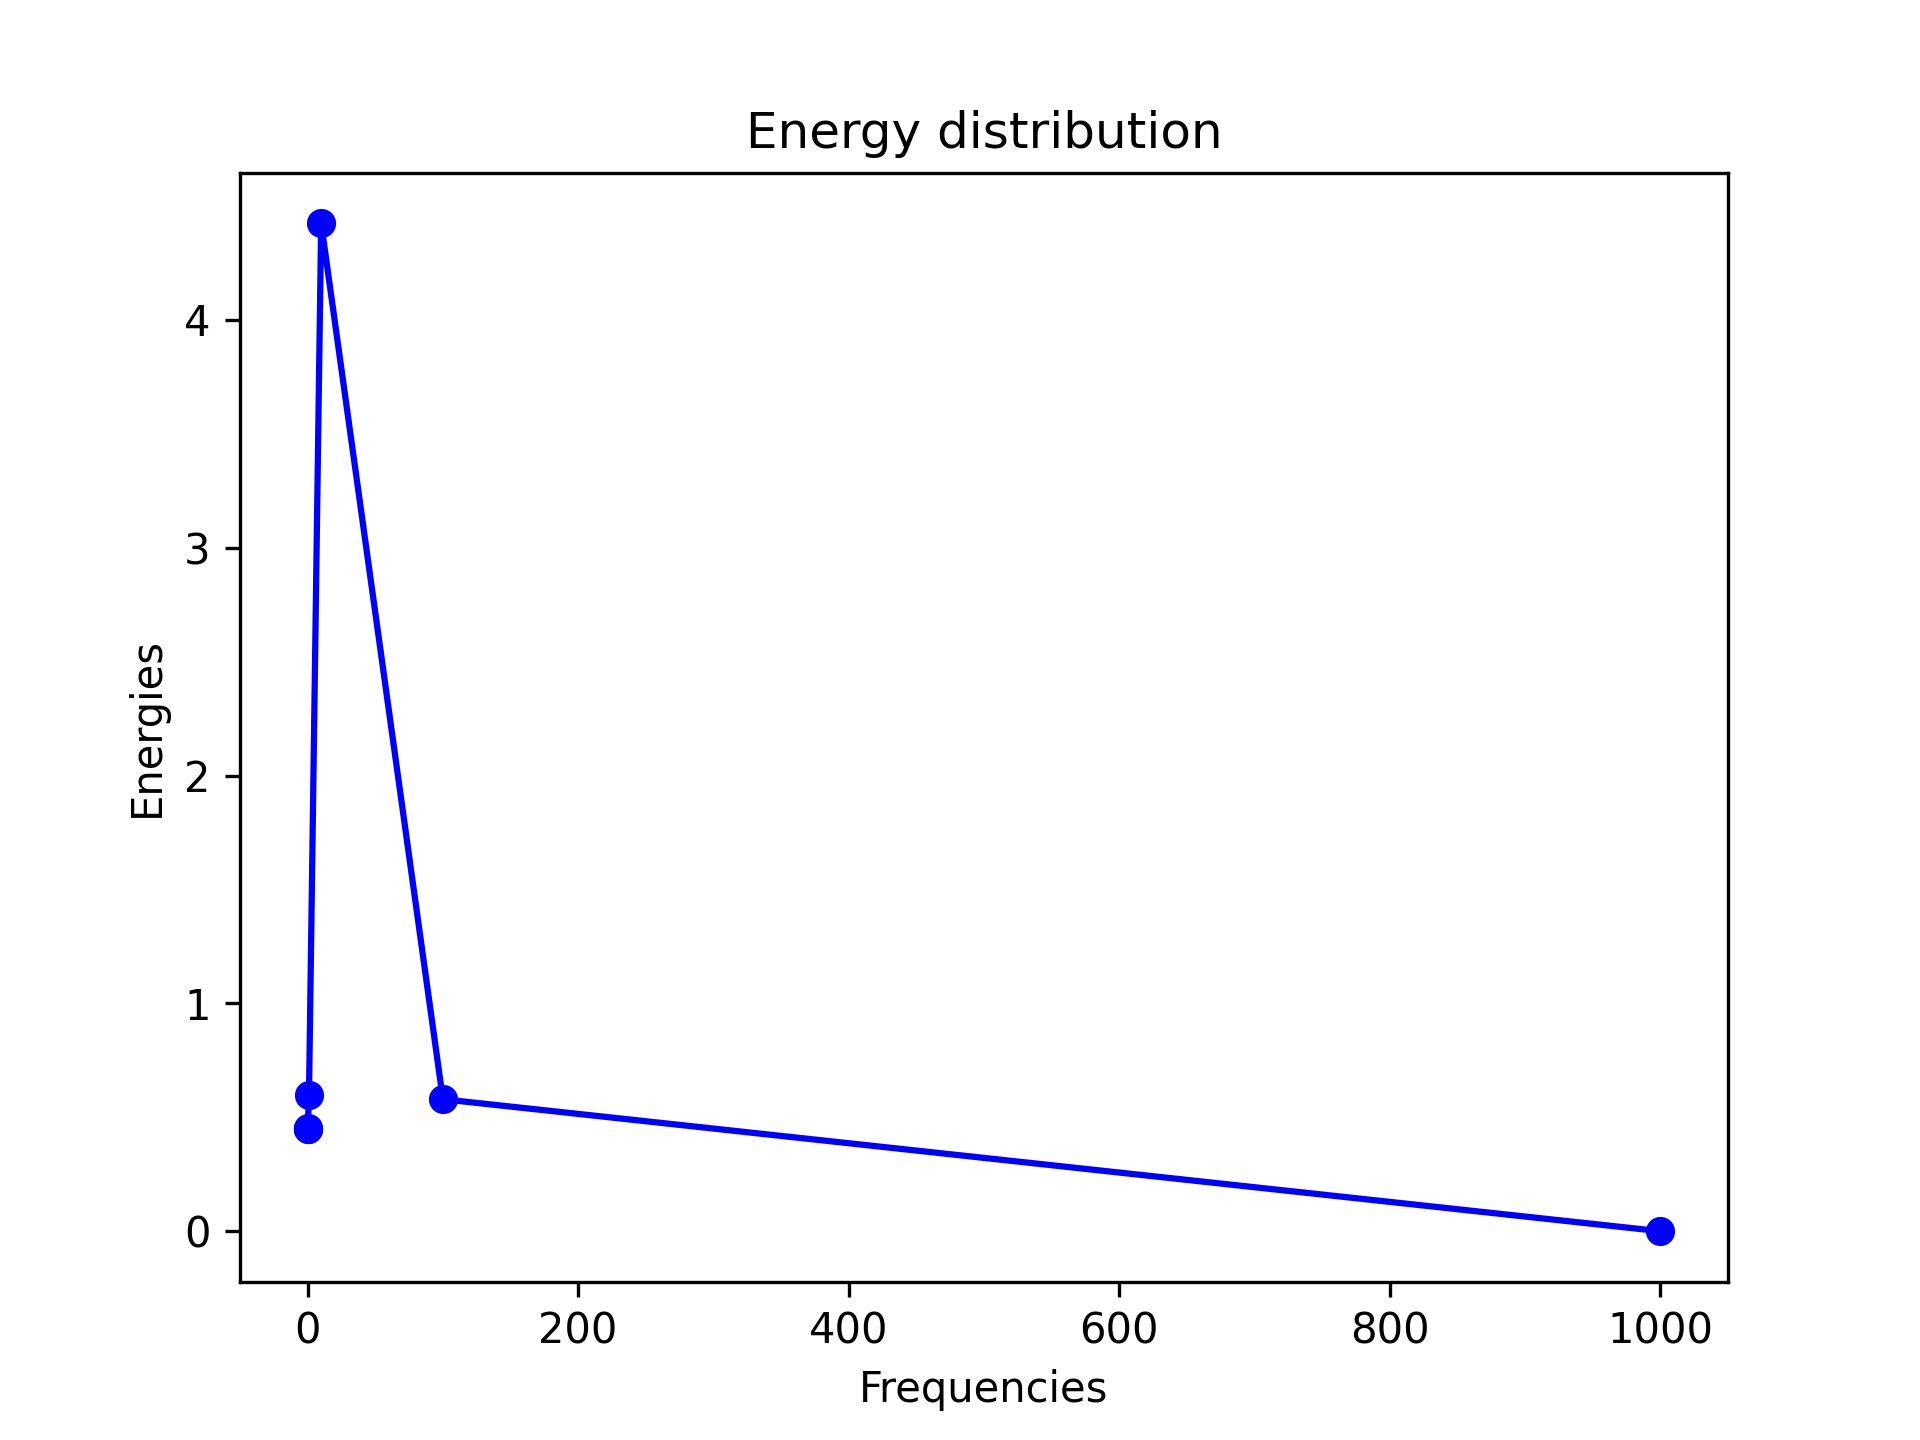
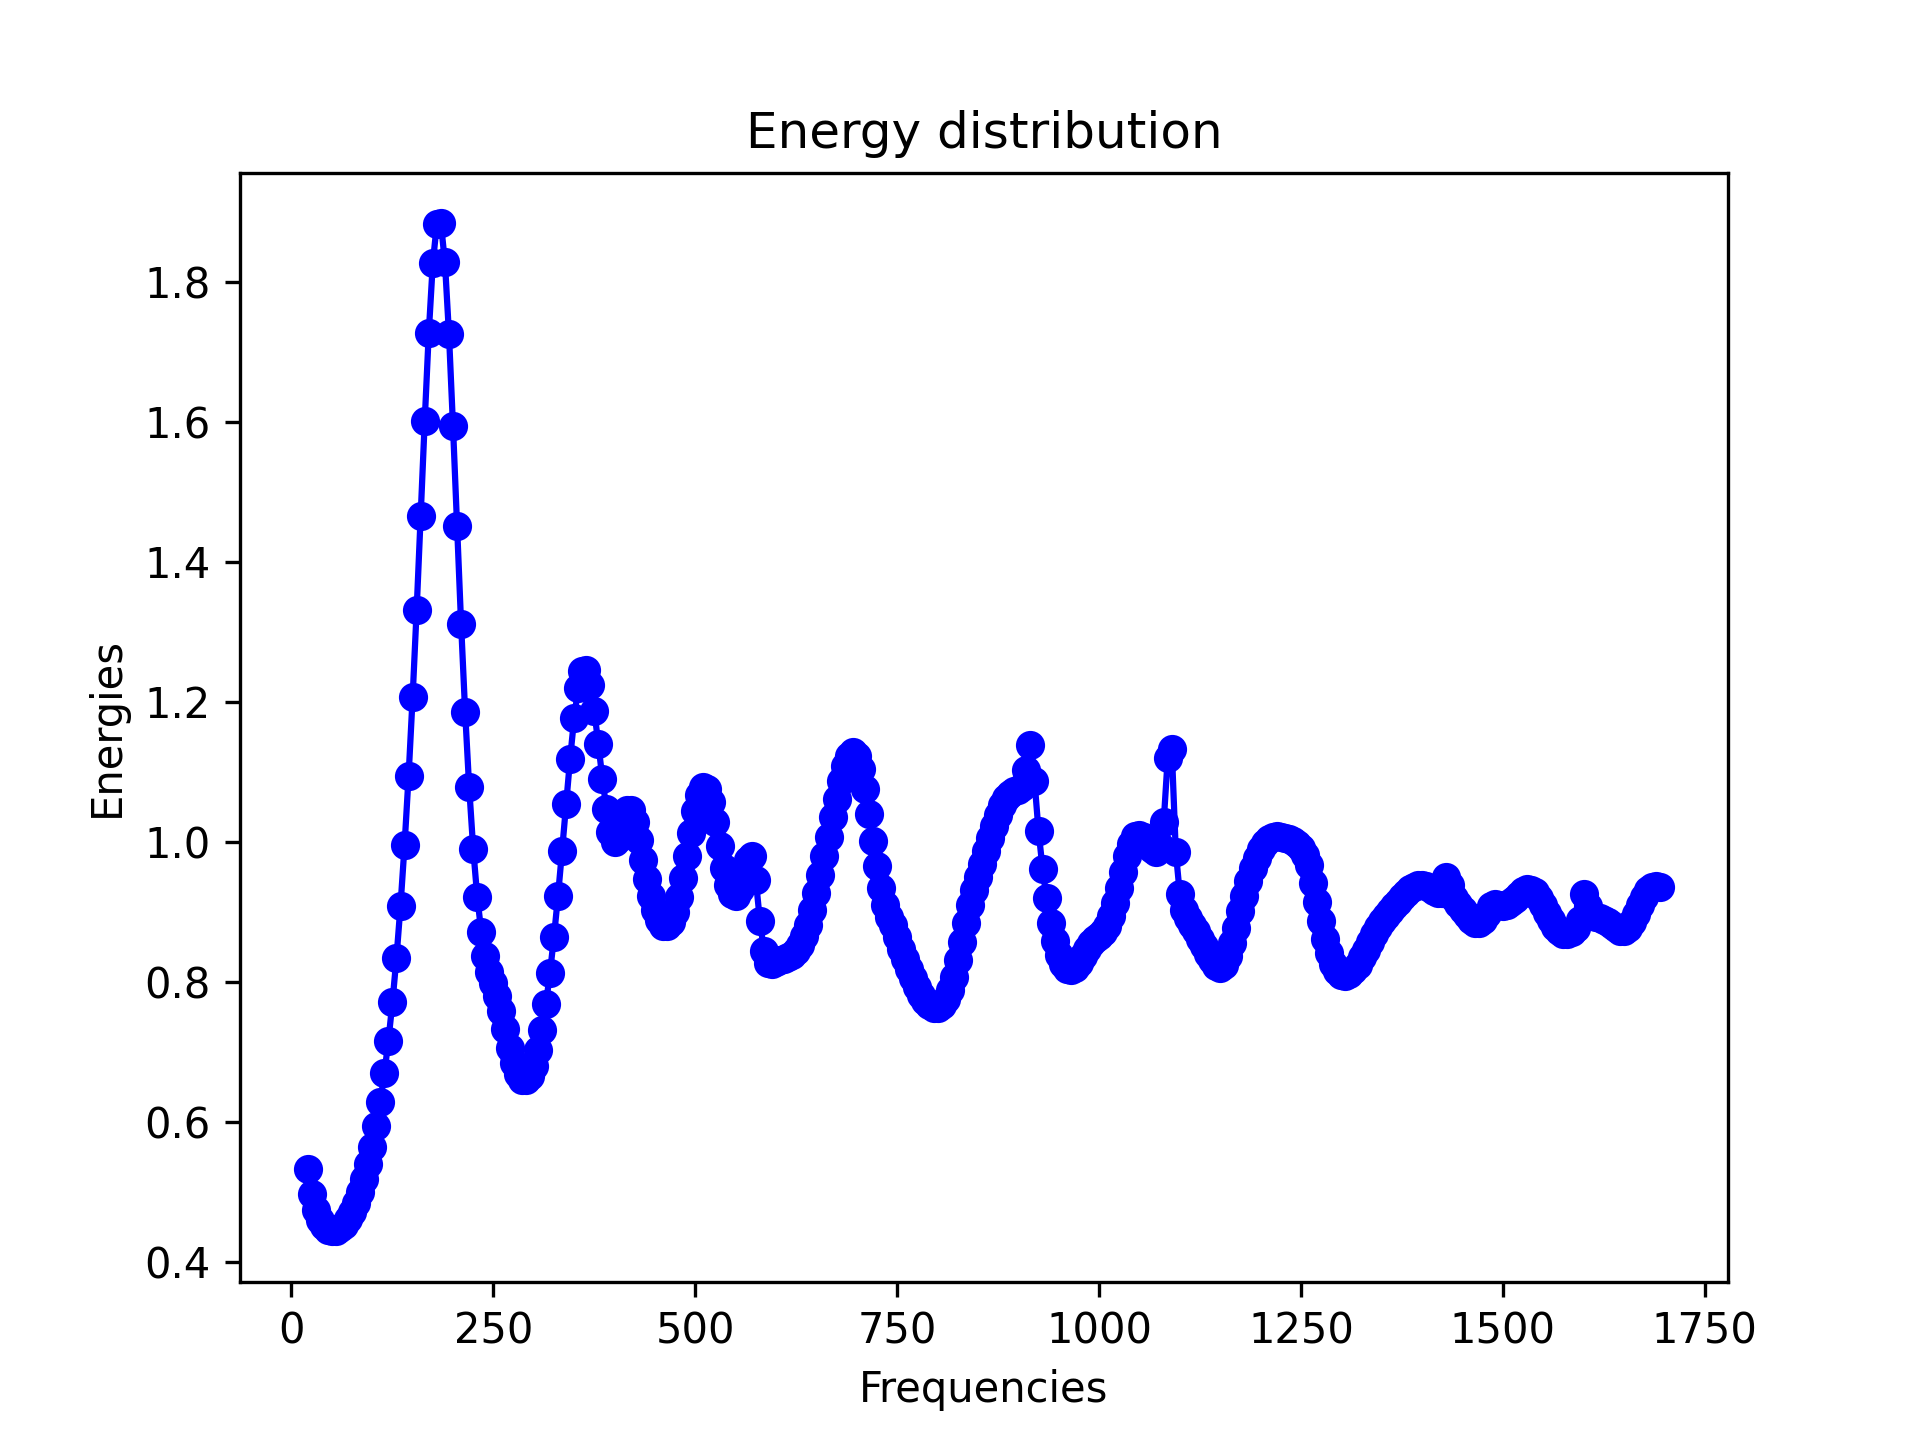
Résultats tjr incohérents

diff --git a/demo_control_polycopie2024.py b/demo_control_polycopie2024.py
@@ -128,10 +128,11 @@ def launch_experience(wavenumber = 10.0, incident_wave_energy = 1.0, optimize = 
     # -- define material density matrix
     chi = preprocessing._set_chi(M, N, x, y)
     chi = preprocessing.set2zero(chi, domain_omega)
+    chi[:] = 1.0
 
-    # -- define absorbing material
-    Alpha = 10.0 - 10.0 * 1j
-    # Alpha = 0 - 0 * 1j
+    # -- define absorbing material # rq : alpha est une fonction de omega ! En 1ère approx, wavenumber - wavenumber * j
+    # Alpha = wavenumber - wavenumber * 1j
+    Alpha = - wavenumber * 1j
     # -- this is the function you have written during your project
     #import compute_alpha
     #Alpha = compute_alpha.compute_alpha(...)
@@ -173,7 +174,7 @@ def launch_experience(wavenumber = 10.0, incident_wave_energy = 1.0, optimize = 
         chin = chi.copy()
         un = u.copy()
 
-    if display:
+    if display==True:
         # -- plot chi, u, and energy
         postprocessing.plot_domain(domain_omega)
         postprocessing._plot_uncontroled_solution(u0, chi0, alpha_rob)
@@ -183,8 +184,13 @@ def launch_experience(wavenumber = 10.0, incident_wave_energy = 1.0, optimize = 
         postprocessing._plot_energy_history(energy)
 
     energy = your_compute_objective_function(domain_omega, u0, spacestep)
+    print(f'alpha_pde = {alpha_pde[1,1]}, beta_pde = {beta_pde[1,1]}')
+    print(f'alpha_dir = {alpha_dir[0,1]}, {alpha_dir[1,1]}')
+    print(f'beta_neu = {beta_neu[5,0]}, {beta_neu[1,1]}')
+    print(f'alpha_rob = {alpha_rob[N,1]}, {alpha_rob[1,1]}')
+    print(f'beta_rob = {beta_rob[N,1]}, {beta_rob[1,1]}')
     return energy
 
 if __name__ == '__main__':
-    launch_experience()
-    
+    launch_experience(wavenumber = 5, display=True)
+        

diff --git a/energy_distribution.py b/energy_distribution.py
@@ -21,18 +21,22 @@ def get_sound_tested():
 
 def get_energies_frequency_plage(plage):
     '''
-    Calculate the system energy, without optimization, for all the frequencies of the plage.
+    Calculate the system energy, without optimization, for all the wavenumbers of the plage.
     
     :param plage: numpy.array([[wavenumber, inciding_wave_power/energy], [], ...], type=float)
     :return energies: numpy.array([[wavenumber, system_energy], [], ...], type=float)
     '''
     energies = []
+    c = 343 # speed of sound in the field (air for now)
     for i in range(len(plage)):
-        energy = demo_control_polycopie2024.launch_experience(wavenumber=plage[i][0], incident_wave_energy=plage[i][1], optimize=False)
+        print(i)
+        frequency = plage[i][0]
+        wavenumber = ( 2 * numpy.pi / c ) * frequency
+        energy = demo_control_polycopie2024.launch_experience(wavenumber=wavenumber, incident_wave_energy=plage[i][1], optimize=False)
         energies.append([energy,plage[i][0]])
-    print(energies)
+        
     energies = numpy.array(energies)
-    print(energies)
+    
     return energies
 
 def plot_energy_distribution(energies):
@@ -53,6 +57,12 @@ def plot_energy_distribution(energies):
     matplotlib.pyplot.close()
     
 if __name__ == '__main__':
-    plage_test_1 = numpy.array([[10**(k), 1] for k in range(-3,4)])
+    plage_frequencies_test = numpy.arange(20,1700,5)
+    plage_test_1 = []
+    for i in range(len(plage_frequencies_test)):
+        plage_test_1.append([plage_frequencies_test[i], 1])
+    plage_test_1 = numpy.array(plage_test_1)
+    print(plage_test_1)
+    
     energies = get_energies_frequency_plage(plage_test_1)
     plot_energy_distribution(energies)

diff --git a/preprocessing.py b/preprocessing.py
@@ -39,8 +39,8 @@ def replace_old_by_new(u, oldvalue, newvalue):
                 u[i, j] = newvalue
     return u
 
-
-def _set_coefficients_of_pde(M, N):
+# Une modif peut-être fausse.
+def _set_coefficients_of_pde(M, N):   
     beta_pde = numpy.ones((M, N), dtype=numpy.complex128)
     alpha_pde = numpy.ones((M, N), dtype=numpy.complex128)
     alpha_dir = numpy.ones((M, N), dtype=numpy.complex128)

diff --git a/processing.py b/processing.py
@@ -347,7 +347,7 @@ def solve_helmholtz(domain, space_step, omega,
     rhs = rhs_temp
     # -- create mass matrix
     mat_temp, rhs_temp = compute_mass_matrix(domain, space_step, alpha_pde)
-    mat = mat + omega ** 2 * mat_temp
+    mat = mat + omega ** 2 * mat_temp   
     rhs = rhs
     # -- create convection (vgradu) matrix
     # <!--
